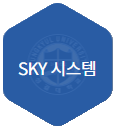
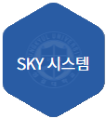
이미지 반응형 추가

diff --git a/css/upload.css b/css/upload.css
@@ -8,8 +8,8 @@ body {
 .navbar {
   padding-bottom: 10px;
 }
-/* howUse*/
 
+/* howUse*/
 .howUse {
   background-color: #f9fafb;
   height: 632px;
@@ -22,14 +22,14 @@ body {
 .uploadBox {
   border: 1px solid #999ea4;
   border-radius: 10px;
-
-  height: 230px;
+  height: 250px;
   background: #fff;
   font-size: 15px;
   font-style: normal;
   font-weight: 700;
+  margin: 0 17px 0 17px;
+  position: relative;
 }
-
 .step {
   height: 158px;
   margin-top: -8px;
@@ -37,28 +37,13 @@ body {
 .step-sub-title {
   font-size: 12px;
 }
-
 .step > p {
-  margin-top: 19.39px;
-}
-.img_step1 {
-  height: 115px;
-  margin-top: -9px;
-}
-.img_step2 {
-  margin-top: 7px;
-}
-.img_step3 {
-  margin-top: 30px;
-  height: 31px;
-}
-.img_step4 {
-  margin-top: 30px;
+  margin-top: 19px;
 }
 hr {
   margin: 0px;
+  margin-top: 10px;
 }
-
 #input {
   visibility: hidden;
 }
@@ -69,22 +54,43 @@ hr {
   border-radius: 30px;
   border: 2px solid #5ab0ff;
   background: #2579f1;
-  width: 264px;
-  height: 60.098px;
-  font-size: 22px;
+  width: 160px;
+  height: 48px;
+  font-size: 16px;
   margin-top: 55px;
+  position: relative;
 }
-
 .btn-text {
-  margin-right: 35px;
+  margin-right: 30px;
   font-weight: 700;
 }
-.uploadBtn img {
+.uploadIcon img {
+  width: 22px;
   position: absolute;
-  padding-left: 10px;
-  padding-top: 1.5px;
+  right: 12px;
+  bottom: 12px;
+}
+.img_step1 img {
+  width: 36%;
+  padding-top: 4px;
+  height: auto;
 }
 
+.img_step2 img,
+.img_step3 img,
+.img_step4 img {
+  max-width: 90%;
+  height: auto;
+}
+.img_step2 {
+  padding-top: 13px;
+}
+.img_step3 {
+  padding-top: 38px;
+}
+.img_step4 {
+  padding-top: 38px;
+}
 /* notice */
 .notice {
   height: 411px;
@@ -107,104 +113,113 @@ hr {
   .howUse {
     height: auto;
   }
-
   .uploadBox {
-    background: #fff;
     margin-bottom: 48px;
+  }
+  .img_step1 img {
+    width: 53%;
+    padding-top: 4px;
+    height: auto;
   }
 
   #uploadBtn {
-    margin: 0px 0px 90px 0;
+    margin: 0px 0px 40px 0;
   }
-
   .notice {
     height: 411px;
   }
   .notice-sub-text {
     font-size: 18px;
   }
-
-  @media (min-width: 768px) and (max-width: 991.98px) {
-    .howUse {
-      height: auto;
-    }
-    #uploadBtn {
-      margin: 10px 0px 50px 0;
-    }
-    .notice {
-      height: 411px;
-    }
+}
+@media (min-width: 1194px) and (max-width: 1405px) {
+  .img_step1 img {
+    width: 44%;
   }
-  @media (min-width: 576px) and (max-width: 767.98px) {
-    .howUse {
-      height: auto;
-    }
+}
 
-    #uploadBtn {
-      margin: -30px 0px 50px 0;
-    }
-    .notice-sub-text {
-      font-size: 16px;
-    }
-    .notice-sub-text li {
-      line-height: 30px;
-    }
+@media (min-width: 768px) and (max-width: 991.98px) {
+  .howUse {
+    height: auto;
   }
-  @media (max-width: 575.98px) {
-    .howUse {
-      height: auto;
-    }
-    .howuse-text {
-      font-size: 30px;
-    }
-    .uploadBox {
-      border: 1px solid #999ea4;
-      border-radius: 10px;
-    }
-    .img_step1 {
-      height: 100px;
-      margin-top: 0.2px;
-    }
-    .img_step2 {
-      height: 57px;
-      margin-top: 15px;
-    }
-    .img_step3 {
-      height: 22px;
-    }
-    .img_step4 {
-      height: 33px;
-    }
+  #uploadBtn {
+    margin: 10px 0px 50px 0;
+  }
+  .img_step1 img {
+    width: 32%;
+    padding-top: 4px;
+    height: auto;
+  }
 
-    #uploadBtn {
-      width: 200px;
-      height: 50.098px;
-      font-size: 17px;
-      margin: -30px 0px 50px 0;
-    }
+  .notice {
+    height: 411px;
+  }
+}
 
-    .btn-text {
-      margin-right: 35px;
-      font-weight: 700;
-    }
-    .uploadBtn img {
-      position: absolute;
-      padding-left: 10px;
-      padding-top: 1.9px;
-      width: 33px;
-    }
-    .notice {
-      height: 330px;
-    }
-    .notice-sub-text {
-      font-size: 11px;
-      margin-bottom: 58px;
-    }
-    .notice-text {
-      font-size: 30px;
-    }
-    .notice-sub-text li {
-      line-height: 25px;
-    }
+@media (min-width: 480px) and (max-width: 767.98px) {
+  .howUse {
+    height: auto;
+  }
+  #uploadBtn {
+    margin: -30px 0px 50px 0;
+  }
+  .img_step1 img {
+    width: 45%;
+    height: auto;
+  }
+  .notice-sub-text {
+    font-size: 16px;
+  }
+  .notice-sub-text li {
+    line-height: 30px;
+  }
+}
+@media (max-width: 575.98px) {
+  .howUse {
+    height: auto;
+  }
+  .howuse-text {
+    font-size: 30px;
+  }
+
+  .uploadBox {
+    border: 1px solid #999ea4;
+    border-radius: 10px;
+  }
+
+  #uploadBtn {
+    margin: -30px 0px 50px 0;
+    width: 133px;
+    height: 45px;
+    font-size: 13px;
+    position: relative;
+  }
+
+  .btn-text {
+    margin-right: 20px;
+    font-weight: 700;
+  }
+  .uploadIcon img {
+    width: 18px;
+    position: absolute;
+    right: 10px;
+    bottom: 12px;
+  }
+  .img_step1 img {
+    width: 58%;
+    padding-top: 10px;
+  }
+  .notice {
+    height: 330px;
+  }
+  .notice-sub-text {
+    font-size: 11px;
+    margin-bottom: 58px;
+  }
+  .notice-text {
+    font-size: 30px;
+  }
+  .notice-sub-text li {
+    line-height: 25px;
   }
 }

diff --git a/upload.html b/upload.html
@@ -81,13 +81,11 @@
             <div class="uploadBox text-center">
               <div class="step">
                 <p>STEP 1.</p>
-                <img
-                  src="./source/img/upload_img/step1.png"
-                  class="img_step1"
-                />
+                <div class="img_step1">
+                  <img src="./source/img/upload_img/step1.png" />
+                </div>
               </div>
-
-              <hr class="pb-3" />
+              <hr class="pb-4" />
               <p class="step-sub-title">SKY 시스템 접속하기</p>
             </div>
           </div>
@@ -96,12 +94,11 @@
             <div class="uploadBox text-center">
               <div class="step">
                 <p>STEP 2.</p>
-                <img
-                  src="./source/img/upload_img/step2.png"
-                  class="img_step2"
-                />
+                <div class="img_step2">
+                  <img src="./source/img/upload_img/step2.png" />
+                </div>
               </div>
-              <hr class="pb-2" />
+              <hr class="pb-3" />
               <p class="step-sub-title">
                 성적 정보 클릭 후 <br />개인별 학기 성적조회
               </p>
@@ -112,12 +109,11 @@
             <div class="uploadBox text-center">
               <div class="step">
                 <p>STEP 3.</p>
-                <img
-                  src="./source/img/upload_img/step3.png"
-                  class="img_step3"
-                />
+                <div class="img_step3">
+                  <img src="./source/img/upload_img/step3.png" />
+                </div>
               </div>
-              <hr class="pb-2" />
+              <hr class="pb-3" />
               <p class="step-sub-title">
                 포털비밀번호 입력 후<br />이수구분별성적조회 클릭
               </p>
@@ -128,12 +124,11 @@
             <div class="uploadBox text-center">
               <div class="step">
                 <p>STEP 4.</p>
-                <img
-                  src="./source/img/upload_img/step4.png"
-                  class="img_step4"
-                />
+                <div class="img_step4">
+                  <img src="./source/img/upload_img/step4.png" />
+                </div>
               </div>
-              <hr class="pb-3" />
+              <hr class="pb-4" />
               <p class="step-sub-title">엑셀 파일 다운로드</p>
             </div>
           </div>
@@ -143,9 +138,10 @@
           <div><input id="input" type="file" /></div>
           <button id="uploadBtn" onclick="onClickUpload();">
             <div class="btn-text pretendard-font">
-              엑셀 파일 업로드<img
-                src="./source/img/upload_img/upload-arrow.png"
-              />
+              엑셀 파일 업로드
+              <div class="uploadIcon">
+                <img src="./source/img/upload_img/upload-arrow.png" />
+              </div>
             </div>
           </button>
           <div><a href="./result.html">결과창 임시링크</a></div>
